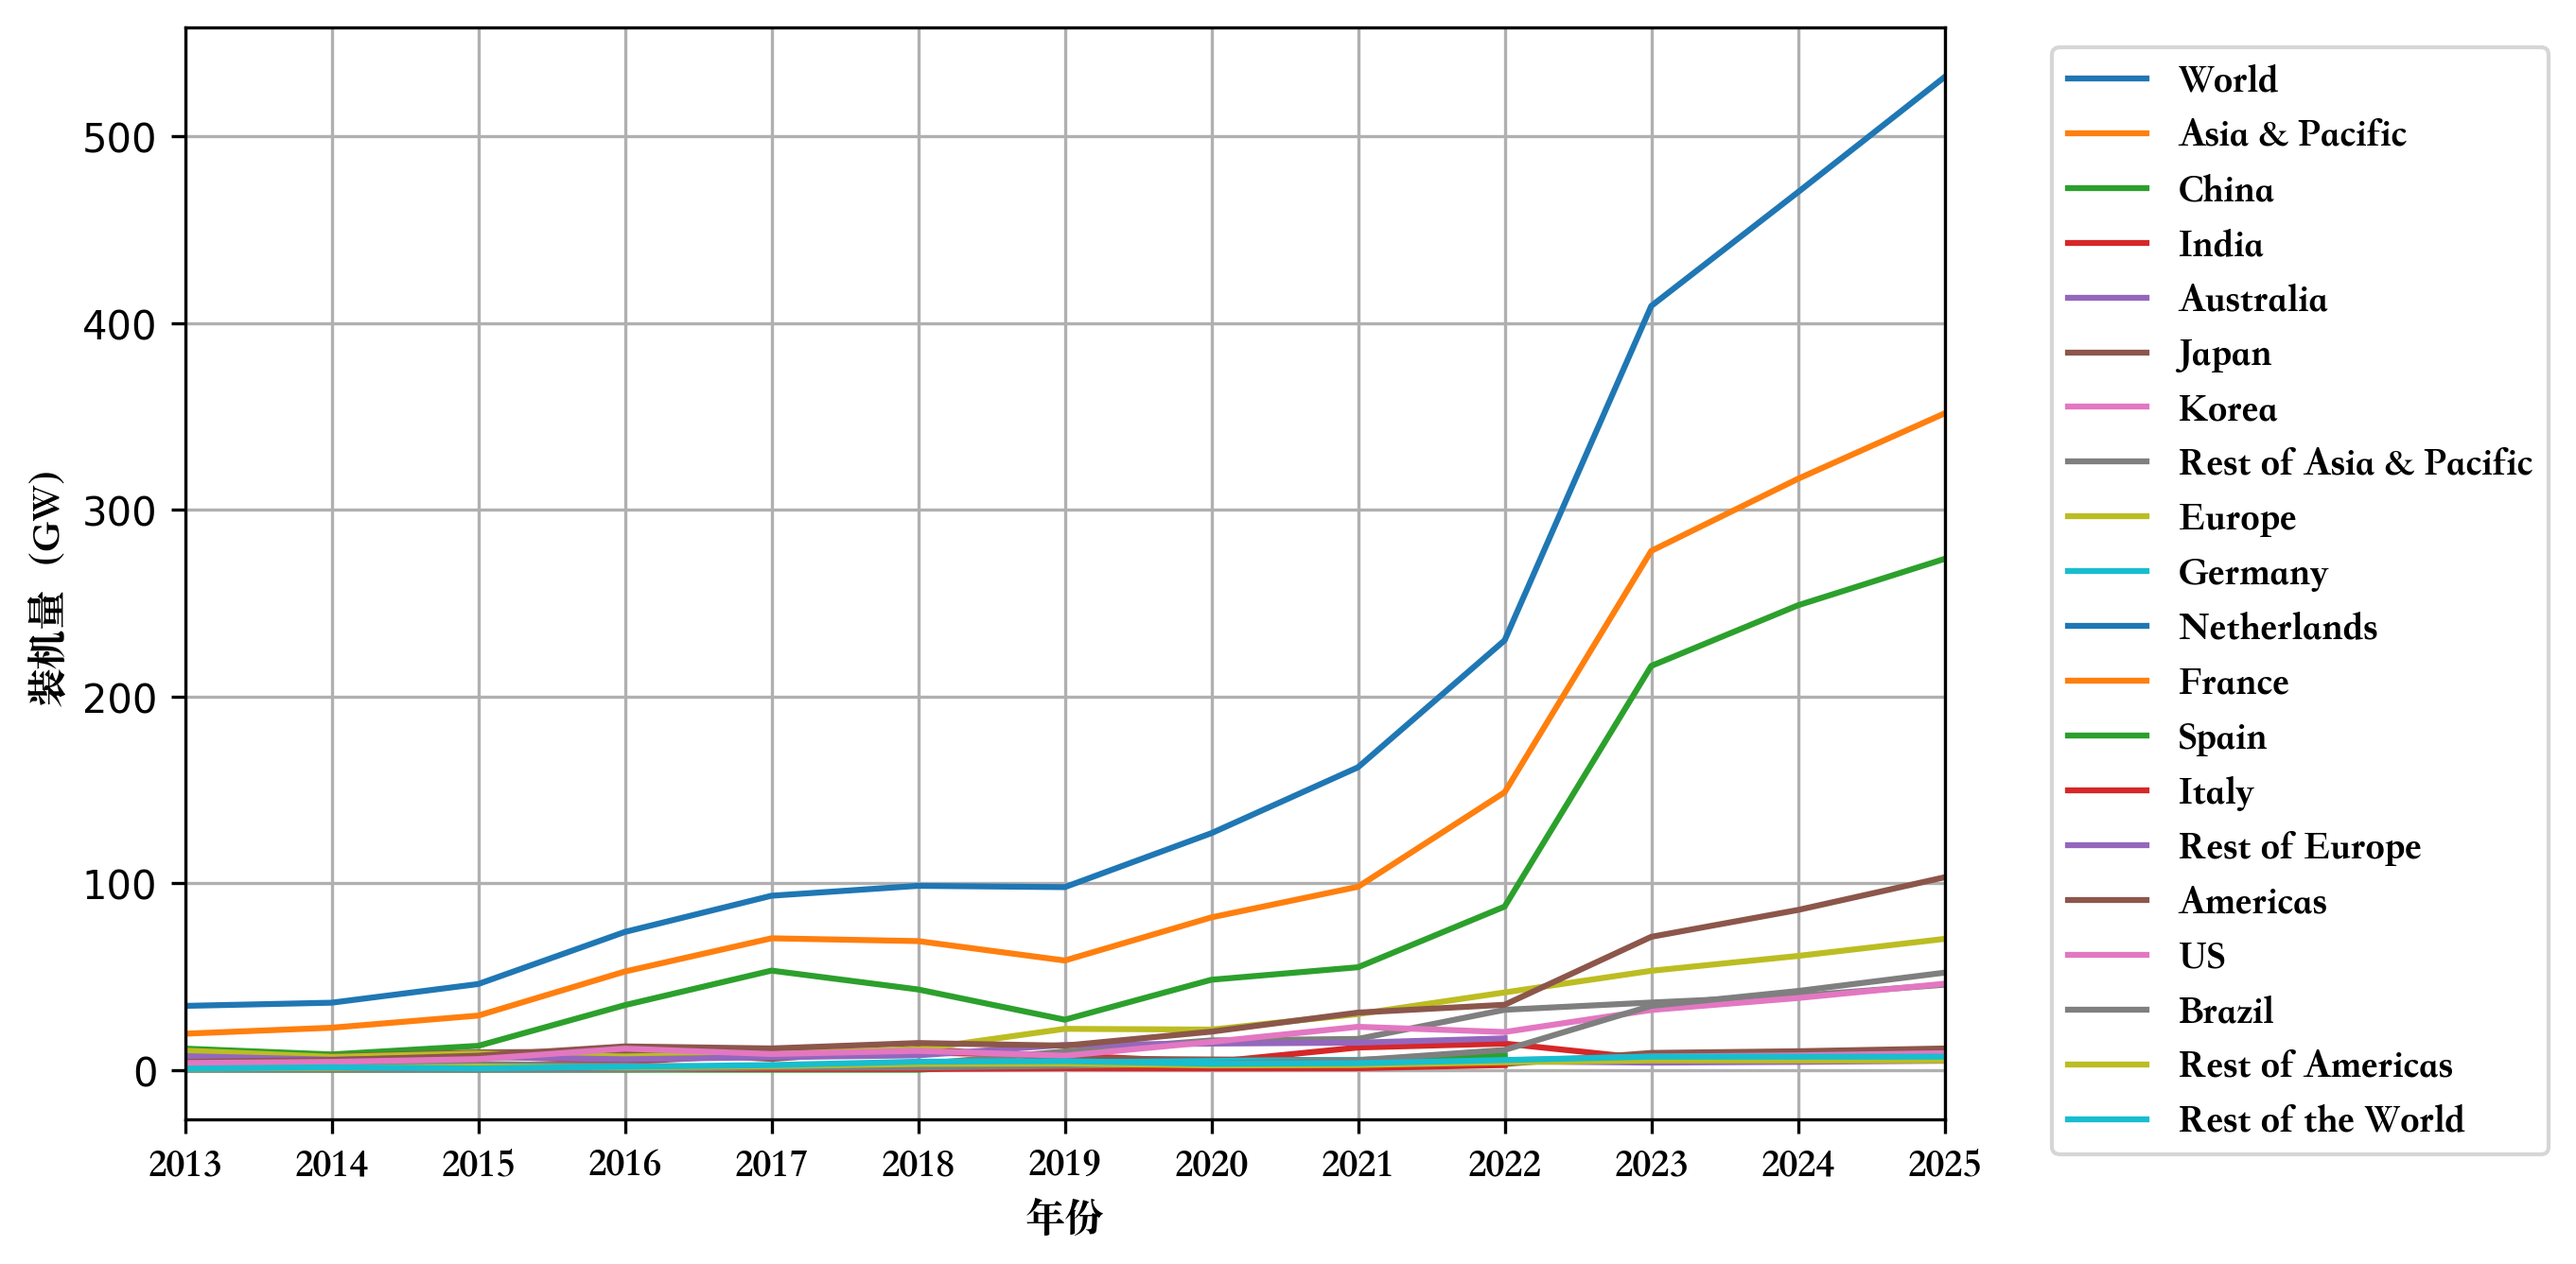
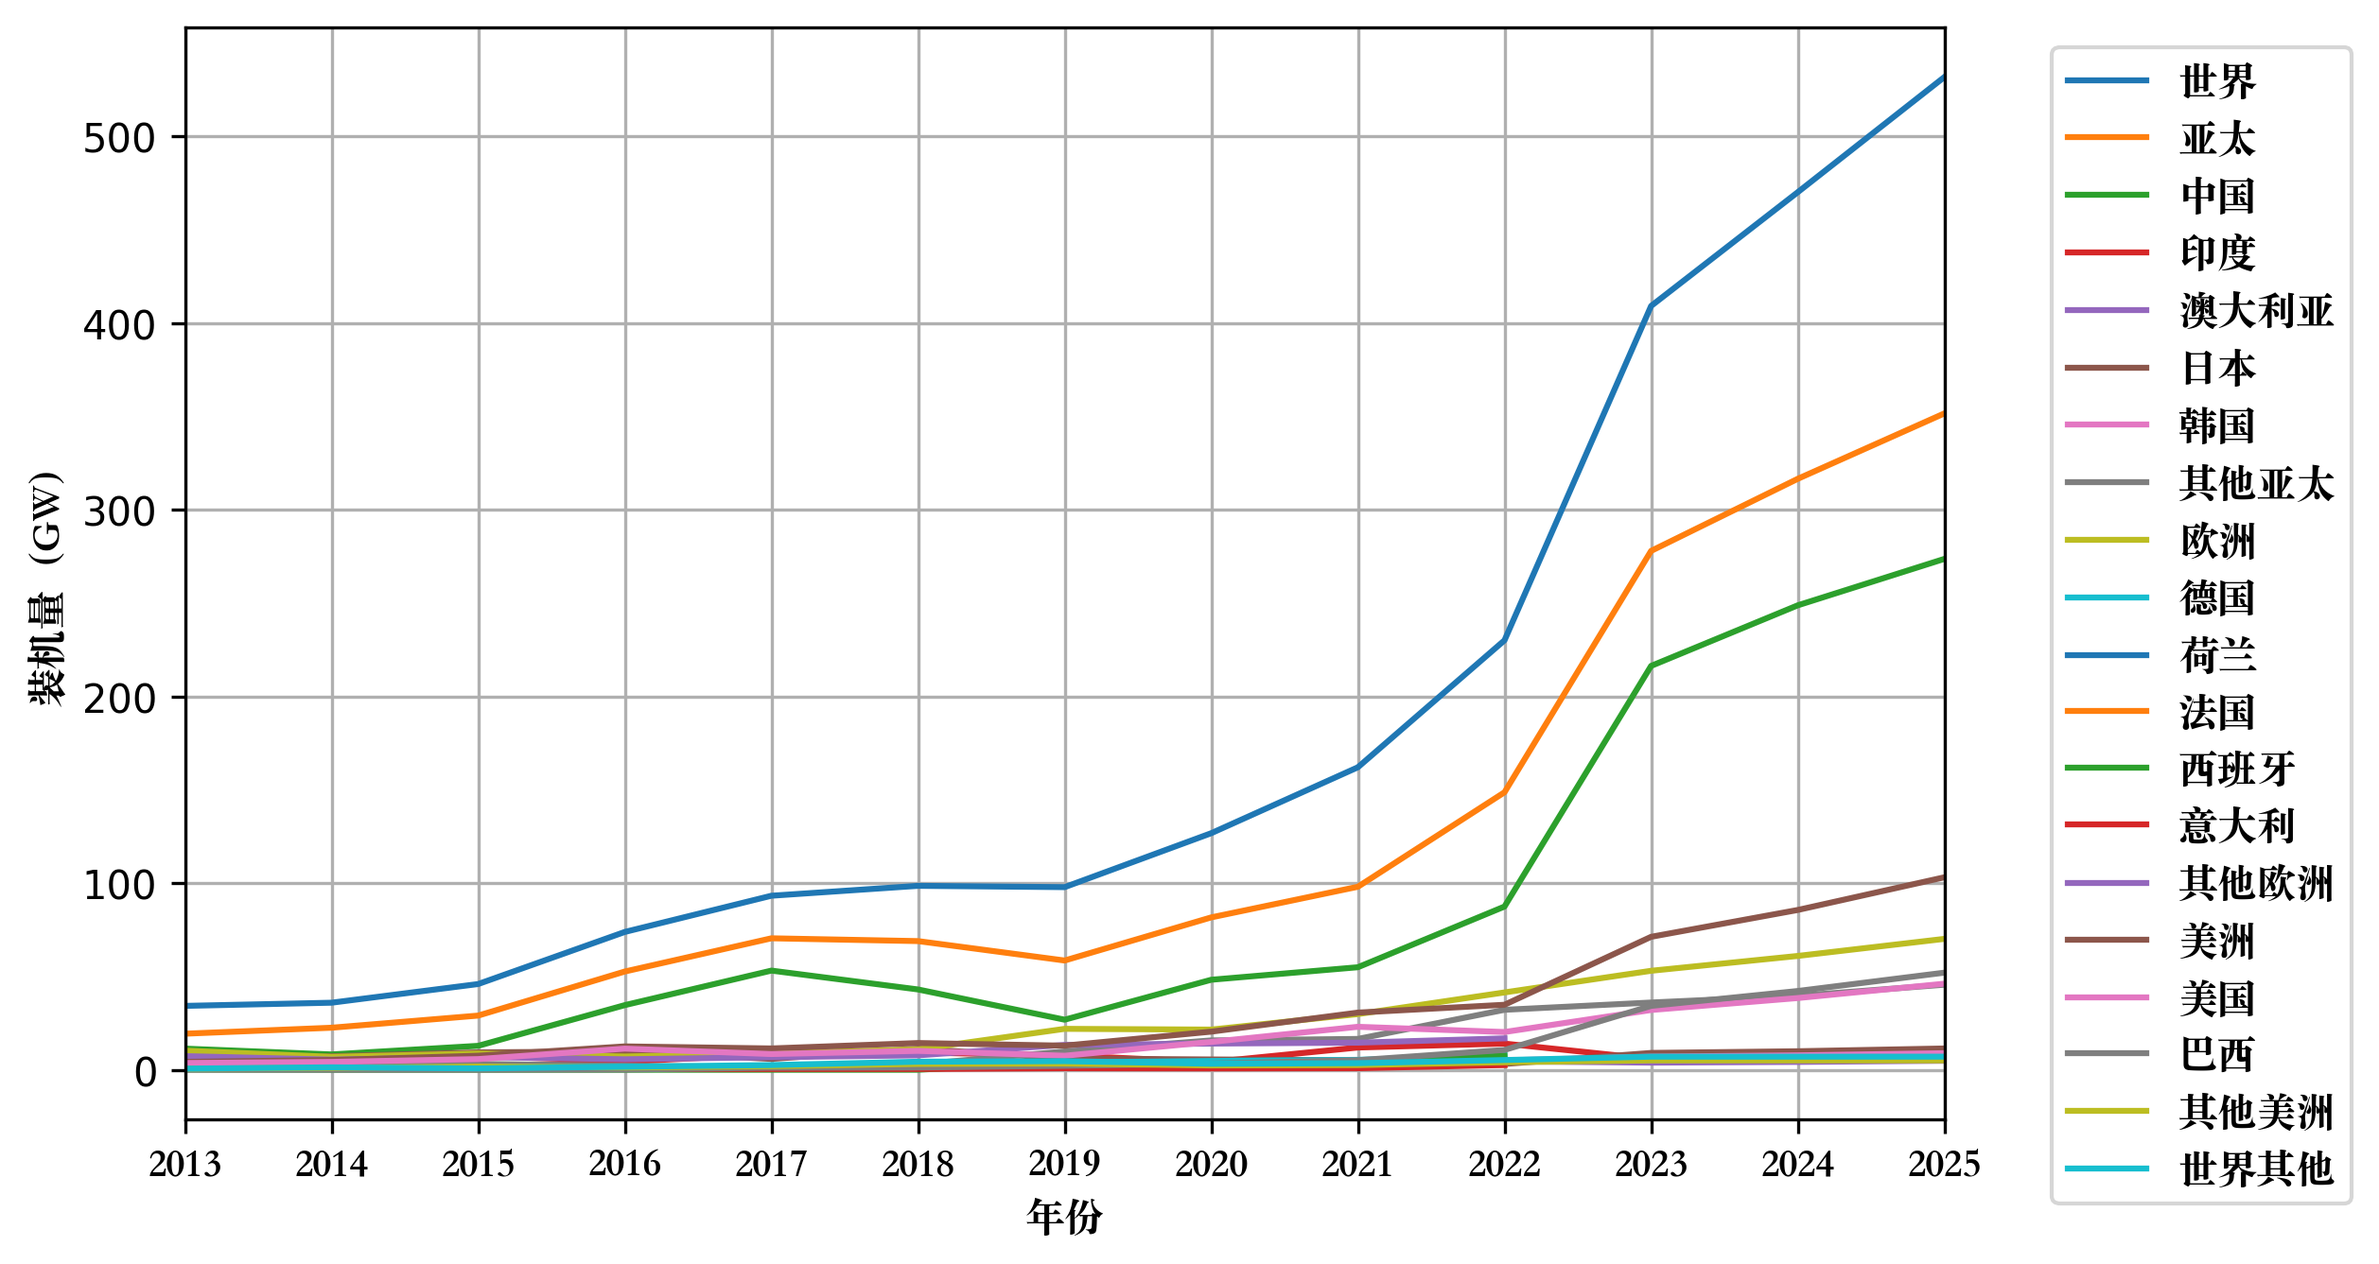
1

diff --git a/Replication Package of IO Project/Code/Plot.py b/Replication Package of IO Project/Code/Plot.py
@@ -46,7 +46,7 @@ plt.close()
 data = pd.read_csv('./Data/1_全球装机预测.csv')
 
 # 提取类别和各区域数据
-years = data['Year']
+years = data['年份']
 regions = data.columns[1:]
 
 # 绘制图表
